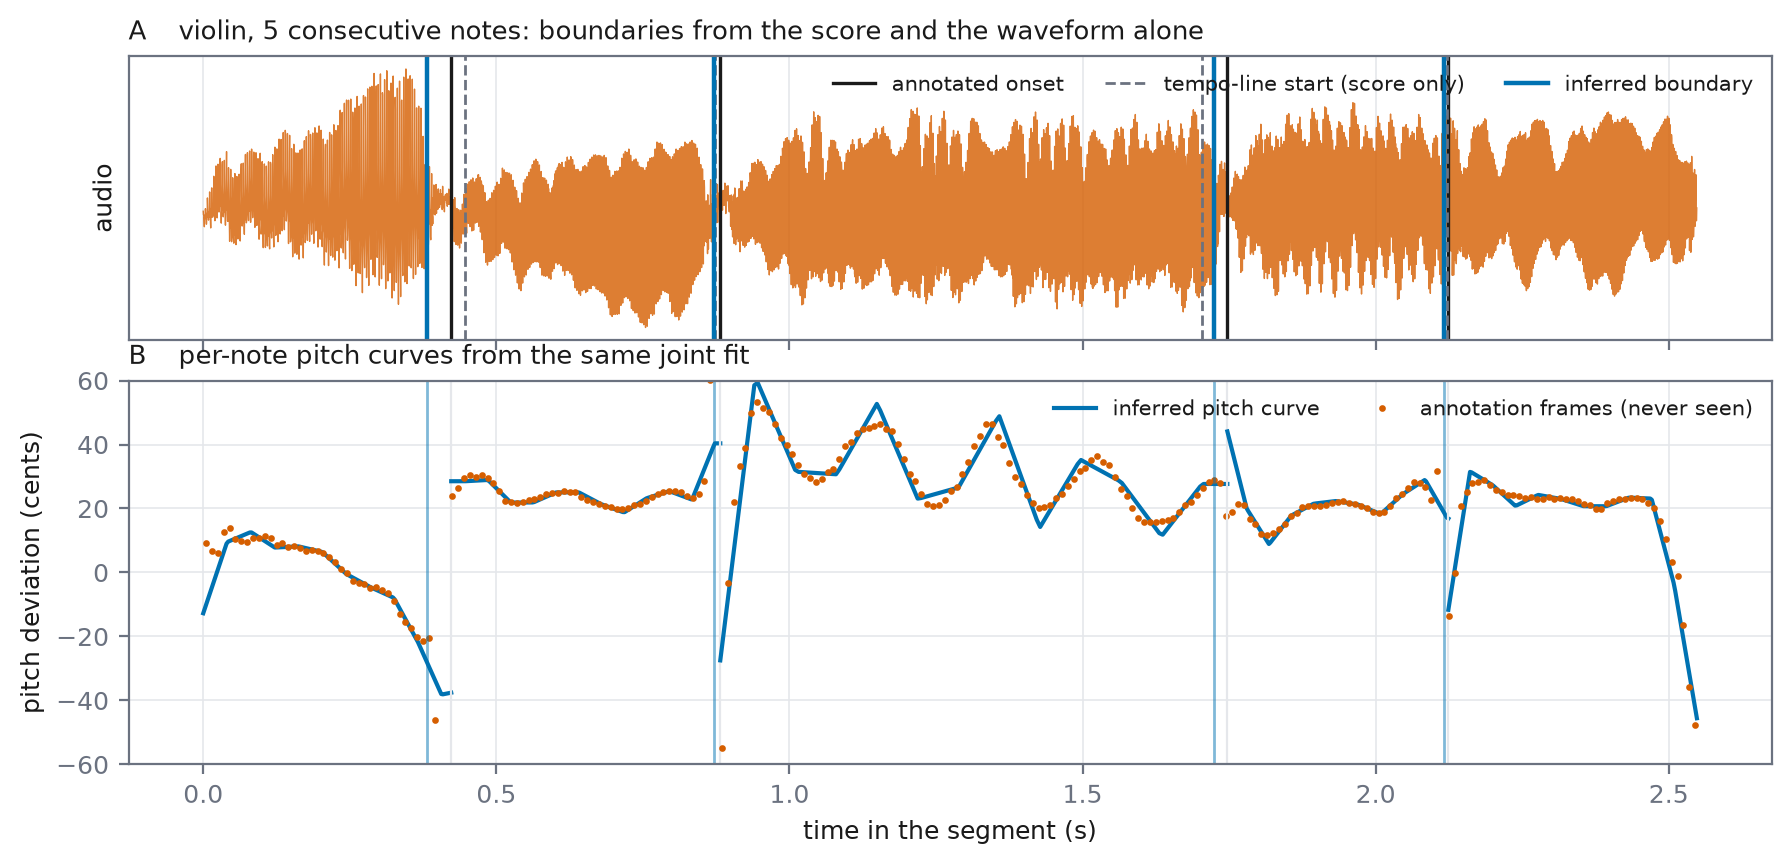
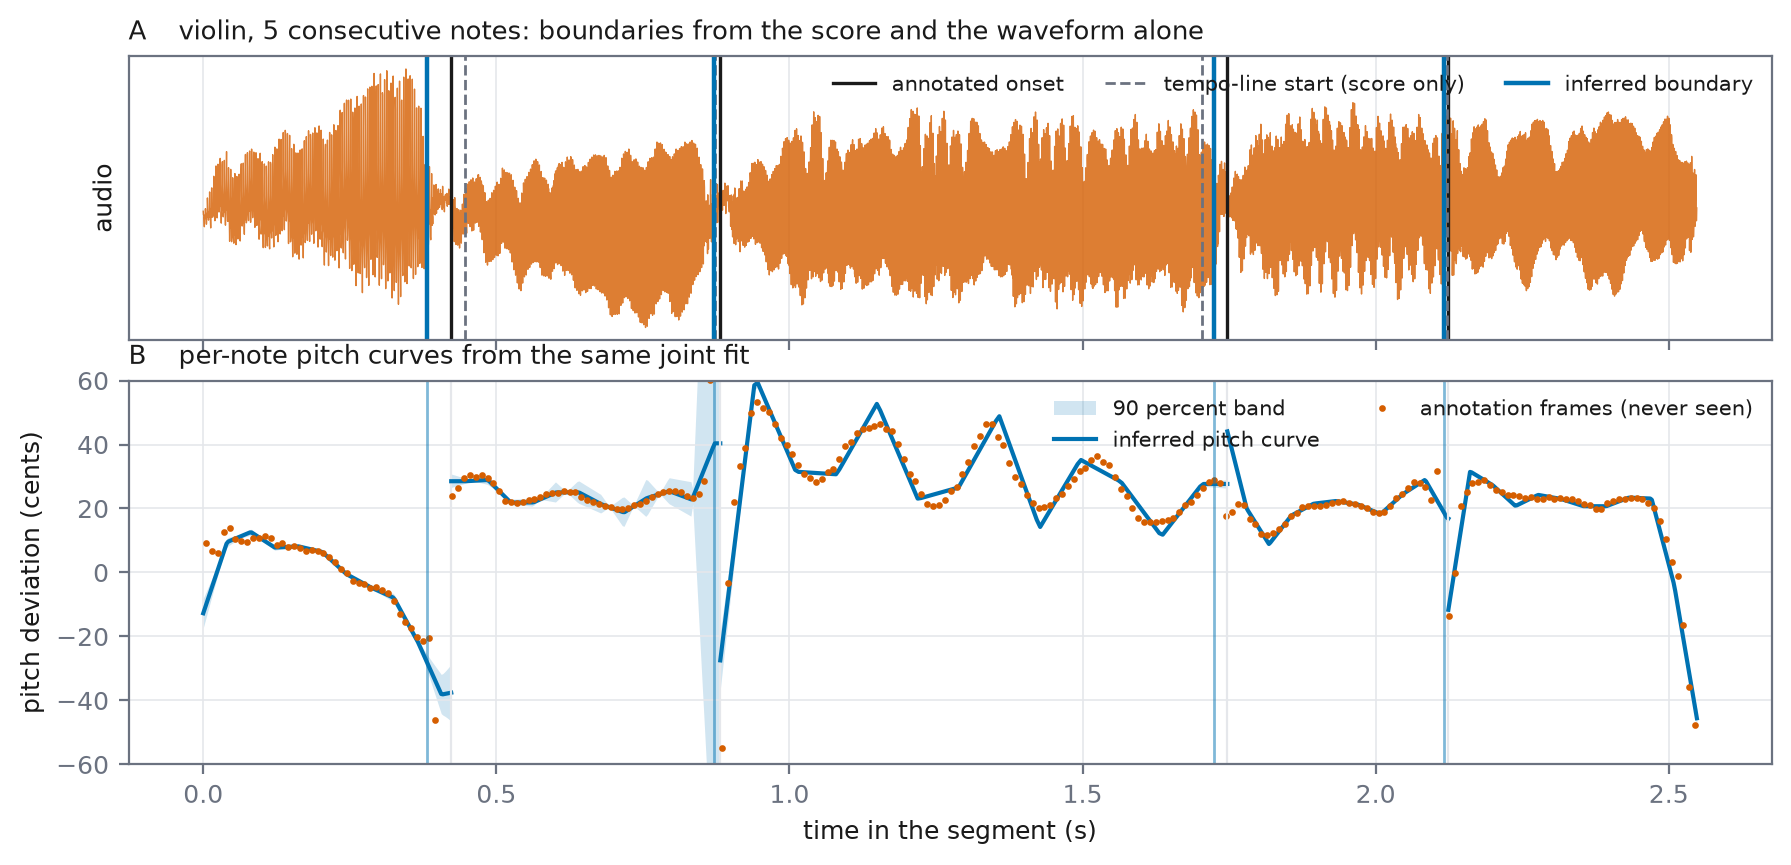
Deck: slide 34 upgraded to before/after; 90% bands made visible/honest
waveform_viz.png gains the inferred-curve reconstruction as a third
trace: the constant pitch drifts out of phase across the 40 ms window
while the inferred curve stays locked (window RMSE 0.011 -> 0.006);
caption turns the zemi-era cliffhanger into the measured payoff.

chain_boundary_deck.png panel B now carries a real 90% band from a
one-off joint Laplace over all curve parameters at the chain MAP
(boundaries fixed; cross-note coupling kept via the joint inverse
Hessian — chain_curve_laplace in make_chain_viz.py). The band hugs the
curve along the notes and flares exactly at the note joints, verified
visually before the caption claimed it.

Three-notes slide caption now states why the band is invisible there:
drawn but thinner than the line (~half a cent at 90%), honest for the
curve, with the annotation chain's 2-4 cent offset carried separately
as the calibrated floor.

Changed region(s): [[0.3071, 0.437, 0.4299, 0.874], [0.5835, 0.437, 0.737, 0.5306], [0.2457, 0.7803, 0.2764, 0.8116]]

diff --git a/scripts/make_chain_viz.py b/scripts/make_chain_viz.py
@@ -30,6 +30,101 @@ BLUE, VERM, GREEN = "#0072B2", "#D55E00", "#009E73"
 OUT = "docs/thesis/figures/chain_boundary_deck.png"
 
 
+def chain_curve_laplace(x, t, midis, fit, hypers, softness=0.010,
+                        n_harm=8, n_chunk=2, amp_var=10.0):
+    """Joint Laplace over all curve parameters (c's and u's) at the chain
+    MAP, boundaries fixed at their fitted values (batch fits skip this —
+    it is computed here once, for the figure). Returns the per-note
+    (c_k, u_k) covariance blocks of the JOINT inverse Hessian, so
+    cross-note coupling through the shared likelihood is kept."""
+    import torch
+
+    from score_bundle.phase3.curve import (CurvePrior,
+                                           collapsed_loglik_torch,
+                                           design_support_torch,
+                                           interp_knots, knot_gram)
+
+    dev = torch.device("cpu")
+    x_t = torch.as_tensor(np.asarray(x, float), dtype=torch.float64)
+    t_np = np.asarray(t, float)
+    t_t = torch.as_tensor(t_np, dtype=torch.float64)
+    m = t_np.size
+    k_n = len(midis)
+    prior = CurvePrior()
+    b_lo = torch.as_tensor(fit.b_lo, dtype=torch.float64)
+    b_hi = torch.as_tensor(fit.b_hi, dtype=torch.float64)
+    cuts = np.concatenate([[t_np[0]],
+                           0.5 * (fit.b_lo + fit.b_hi), [t_np[-1]]])
+    knots_t, chols, slices, sizes = [], [], [], []
+    for k in range(k_n):
+        kt = torch.as_tensor(fit.knots[k], dtype=torch.float64)
+        _, chol = knot_gram(kt, prior, **(hypers or {}))
+        knots_t.append(kt)
+        chols.append(chol)
+        lo, hi = fit.knots[k][0], fit.knots[k][-1]
+        ia = int(np.searchsorted(t_np, max(t_np[0], lo - 0.2)))
+        ib = int(np.searchsorted(t_np, min(t_np[-1], hi + 0.2)))
+        slices.append((ia, ib))
+        sizes.append(1 + fit.knots[k].size)
+
+    def nlj(theta):
+        pos, cols = 0, []
+        prior_term = 0.0
+        for k in range(k_n):
+            c_k = theta[pos]
+            u_k = theta[pos + 1:pos + sizes[k]]
+            pos += sizes[k]
+            ia, ib = slices[k]
+            ts = t_t[ia:ib]
+            cents = c_k + interp_knots(u_k, knots_t[k], ts)
+            Phi_k = design_support_torch(cents, ts, float(midis[k]), ia,
+                                         m, n_harm, n_chunk)
+            w = torch.ones(m, dtype=torch.float64)
+            if k > 0:
+                w = w * torch.sigmoid((t_t - b_lo[k - 1]) / softness)
+            if k < k_n - 1:
+                w = w * torch.sigmoid((b_hi[k] - t_t) / softness)
+            cols.append(Phi_k * w.unsqueeze(1))
+            prior_term = prior_term + 0.5 * (u_k @ torch.cholesky_solve(
+                u_k.unsqueeze(1), chols[k]).squeeze(1))
+        Phi = torch.cat(cols, dim=1)
+        return -collapsed_loglik_torch(x_t, Phi, fit.noise_var,
+                                       amp_var) + prior_term
+
+    theta0 = torch.as_tensor(
+        np.concatenate([np.concatenate([[fit.c[k]], fit.us[k]])
+                        for k in range(k_n)]), dtype=torch.float64)
+    H = torch.autograd.functional.hessian(nlj, theta0)
+    H = 0.5 * (H + H.T)
+    try:
+        cov = torch.cholesky_inverse(torch.linalg.cholesky(H))
+    except Exception:
+        ev, evec = torch.linalg.eigh(H)
+        ev = ev.clamp(min=1e-8 * float(ev.max().clamp(min=1.0)))
+        cov = (evec / ev) @ evec.T
+    cov = cov.numpy()
+    blocks, pos = [], 0
+    for k in range(k_n):
+        blocks.append(cov[pos:pos + sizes[k], pos:pos + sizes[k]])
+        pos += sizes[k]
+    return blocks
+
+
+def curve_band(fit, k, tq, cov_k):
+    """90 percent band of note k's curve under its joint-Laplace block."""
+    j = fit.knots[k].size
+    idx = np.clip(np.searchsorted(fit.knots[k], tq) - 1, 0, j - 2)
+    w = ((tq - fit.knots[k][idx])
+         / (fit.knots[k][idx + 1] - fit.knots[k][idx]))
+    A = np.zeros((tq.size, j + 1))
+    A[:, 0] = 1.0
+    rows = np.arange(tq.size)
+    A[rows, 1 + idx] += 1.0 - w
+    A[rows, 1 + idx + 1] += w
+    var = np.einsum("ij,jk,ik->i", A, cov_k, A)
+    return 1.645 * np.sqrt(np.maximum(var, 0.0))
+
+
 def main() -> None:
     import matplotlib
     matplotlib.use("Agg")
@@ -52,6 +147,7 @@ def main() -> None:
                                     guard_frac=0.2)
     fit = fit_chain(x, t, midis, ch["b_nom"], hypers=hypers, c_init=c_nom,
                     noise_var=nv_nom, free_width=True)
+    covs = chain_curve_laplace(x, t, midis, fit, hypers)
 
     fig, (axa, axb) = plt.subplots(
         2, 1, figsize=(10.6, 4.6), sharex=True,
@@ -79,7 +175,12 @@ def main() -> None:
     cuts = ch["cuts"]
     for k in range(len(midis)):
         tq = np.linspace(cuts[k], cuts[k + 1], 150)
-        axb.plot(tq, fit.curve(k, tq), color=BLUE, lw=1.5,
+        band = curve_band(fit, k, tq, covs[k])
+        mean_k = fit.curve(k, tq)
+        axb.fill_between(tq, mean_k - band, mean_k + band, color=BLUE,
+                         alpha=0.18, linewidth=0,
+                         label="90 percent band" if k == 0 else None)
+        axb.plot(tq, mean_k, color=BLUE, lw=1.5,
                  label="inferred pitch curve" if k == 0 else None)
         if ch["gts"][k] is not None:
             gt_t, gt_x = ch["gts"][k]

diff --git a/docs/slides/deck.tex b/docs/slides/deck.tex
@@ -617,9 +617,9 @@
 \begin{frame}{One note: the model against the raw audio}
   \figslotw{waveform_viz.png}{0.95}{waveform fit}
   \vspace{-2mm}
-  {\small\textcolor{muted}{On an expressive note even the best
-  constant pitch slips within 40 ms and underfits the swell: the whole
-  curve must be inferred.}}
+  {\small\textcolor{muted}{On an expressive note even the best constant
+  pitch slips out of phase within 40 ms; the curve inferred from the
+  waveform stays in phase. The next slides measure this at scale.}}
 \end{frame}
 
 % ---------------------------------------------------------------------
@@ -629,7 +629,11 @@
   {\small\textcolor{muted}{Development notes (violin, cello, clarinet):
   the curve inferred from the raw waveform, against the corpus
   annotation frames and the tracker's frames, neither of which the fit
-  ever sees.}}
+  ever sees. The 90 percent band is drawn but thinner than the line at
+  this scale (about half a cent): tight for the curve itself, and
+  honestly so --- it does not claim to cover the annotation chain's own
+  2 to 4 cent measurement offset, which is carried separately as a
+  calibrated floor.}}
 \end{frame}
 
 % ---------------------------------------------------------------------
@@ -662,9 +666,10 @@
   \vspace{-3mm}
   {\small From score-only starting points (the local tempo line), the
   median boundary error halves: 40 to 20 ms over 128 boundaries
-  (development, 4 tracks). The remainder is systematic, the acoustic
-  transition vs the written onset: a transient model at the joint is the
-  next step.}
+  (development, 4 tracks). The 90 percent band in B widens exactly where
+  information runs out, at the note joints. The remainder is systematic,
+  the acoustic transition vs the written onset: a transient model at the
+  joint is the next step.}
 \end{frame}
 
 % ---------------------------------------------------------------------

diff --git a/scripts/make_waveform_viz.py b/scripts/make_waveform_viz.py
@@ -49,14 +49,32 @@ c_hat = float(grid[int(np.argmax(lls))])
 Phi = chunked_design(f0_curve(t, midi, c_hat), t)
 beta, *_ = np.linalg.lstsq(Phi, x, rcond=None)
 recon = Phi @ beta
+
+# the inferred whole curve (2026-10): gradient MAP under the fitted prior,
+# reconstruction = design at the MAP curve times the LS amplitudes
+from eval_phase3_curve_dev import load_hypers
+from score_bundle.phase3.curve import fit_note
+fitc = fit_note(x, t, midi, hypers=load_hypers())
+cents_map = fitc.curve(t)[0]
+f0_map = 440.0 * 2.0 ** ((midi - 69.0 + cents_map / 100.0) / 12.0)
+Phi_c = chunked_design(f0_map, t)
+beta_c, *_ = np.linalg.lstsq(Phi_c, x, rcond=None)
+recon_c = Phi_c @ beta_c
+
 fig, A = plt.subplots(figsize=(7.6, 2.9))
 w = slice(int(0.40 * SR), int(0.44 * SR))
 A.plot(t[w] * 1000, x[w], color=VERM, lw=1.0, label="recorded audio $x$")
-A.plot(t[w] * 1000, recon[w], color=BLUE, lw=1.0, ls=(0, (4, 2)),
-       label="model $\\Phi(z)\\,\\hat a$")
+A.plot(t[w] * 1000, recon[w], color=MUTED, lw=1.0, ls=(0, (4, 2)),
+       label="best constant pitch")
+A.plot(t[w] * 1000, recon_c[w], color=BLUE, lw=1.0,
+       label="inferred pitch curve")
 A.set_xlabel("time (ms)"); A.set_ylabel("amplitude")
-A.set_title("40 ms of a strong-vibrato violin note: the best constant pitch already slips", loc="left")
-A.legend(fontsize=8)
+A.set_title("40 ms of a strong-vibrato violin note: the constant slips, "
+            "the inferred curve stays in phase", loc="left")
+A.legend(fontsize=8, ncol=3)
 fig.tight_layout()
 fig.savefig("docs/thesis/figures/waveform_viz.png", bbox_inches="tight")
-print("wrote waveform_viz.png, c_hat", c_hat)
+err_const = float(np.sqrt(np.mean((x[w] - recon[w]) ** 2)))
+err_curve = float(np.sqrt(np.mean((x[w] - recon_c[w]) ** 2)))
+print("wrote waveform_viz.png, c_hat", c_hat,
+      f"window RMSE const {err_const:.4f} vs curve {err_curve:.4f}")
